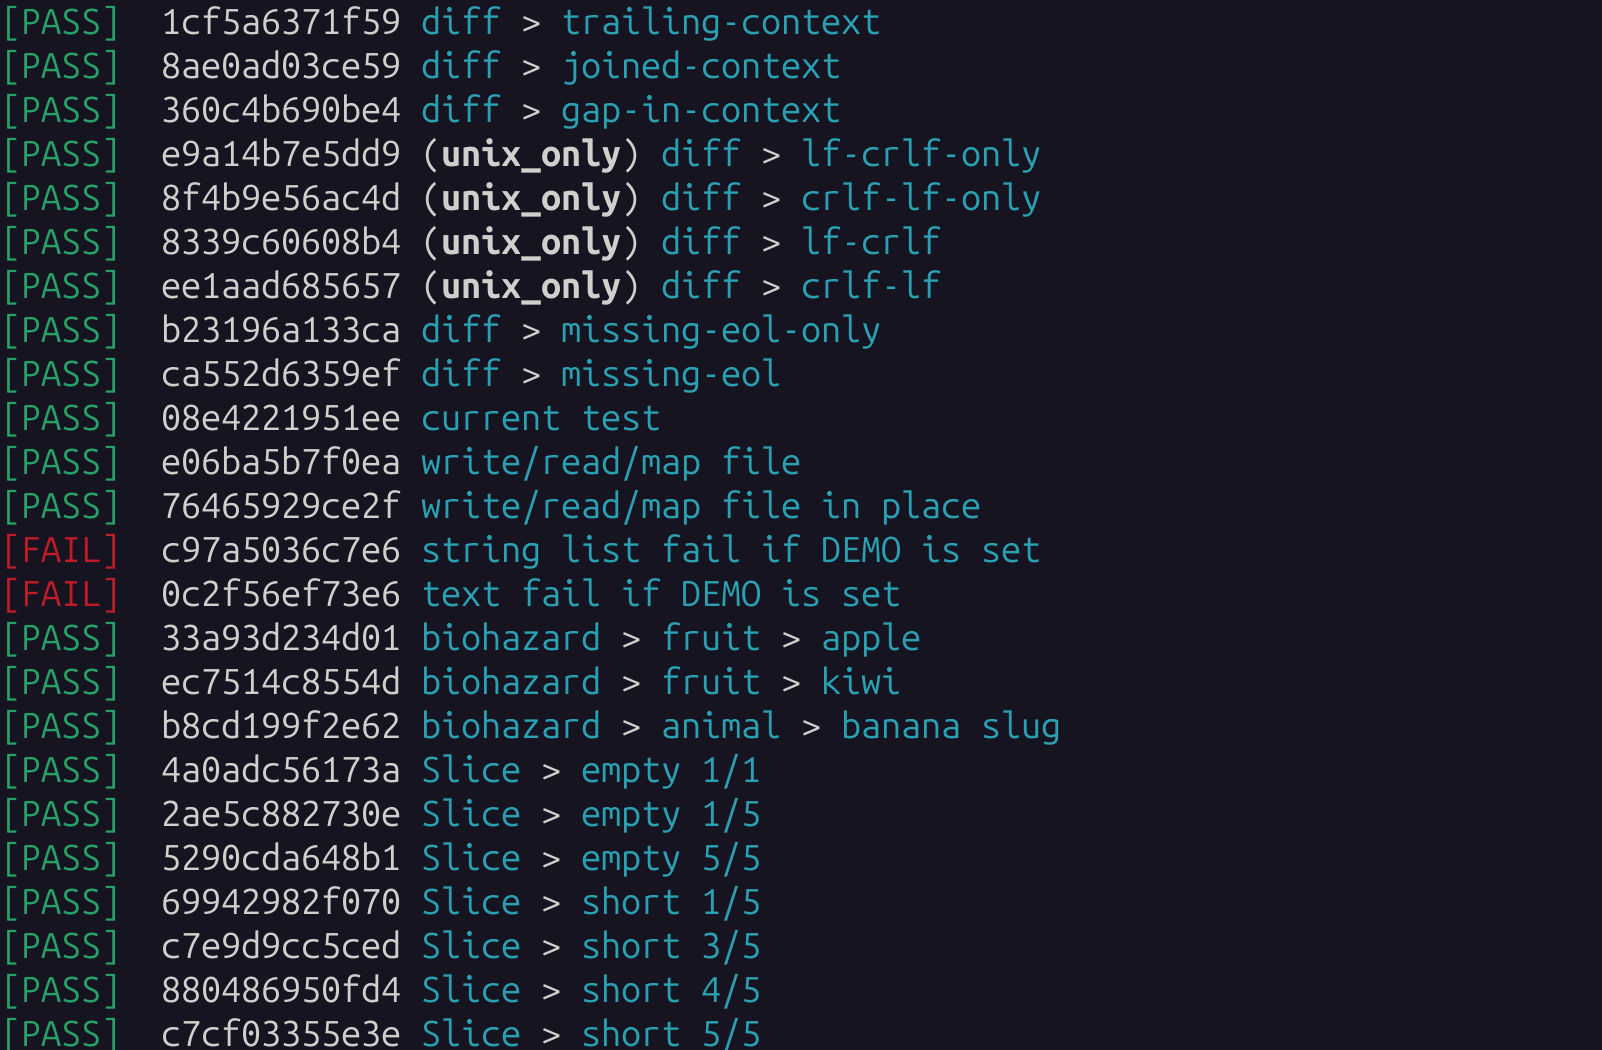
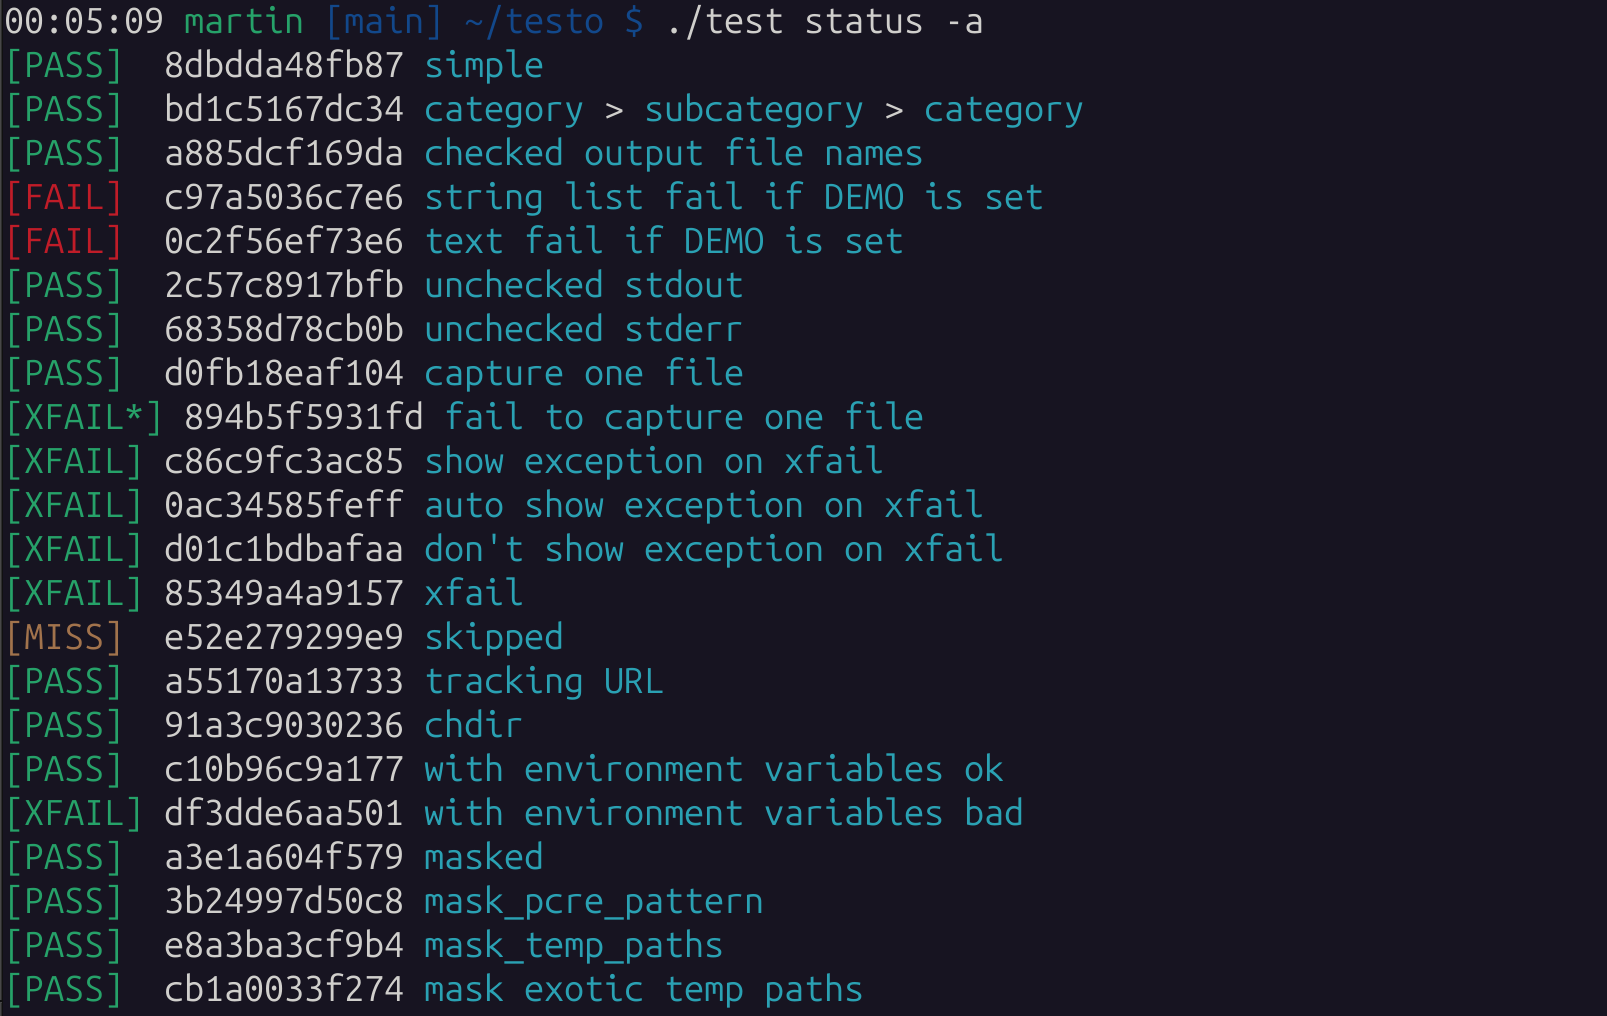
Update status screenshot

Changed region(s): [[0.0, 0.0, 0.6866, 1.0], [0.593, 0.0, 0.6242, 0.0305]]

diff --git a/docs/index.html b/docs/index.html
@@ -64,9 +64,9 @@ and issue tracking on GitHub</a></li>
 <div style="margin-top:5em">
 <p><img src="img/status.png" width="60%"
        alt="screenshot showing the output of './test status'"
-       title="the output of './test status'"/></p>
+       title="the output of './test status -a'"/></p>
 </div>
-<p><em>The output of <code>./test status</code></em></p>
+<p><em>The output of <code>./test status -a</code></em></p>
 <div style="margin-top:5em">
 <p><img src="img/wendys.png" width="60%"
        alt="screenshot showing a test failure"

diff --git a/docsrc/index.md b/docsrc/index.md
@@ -27,10 +27,10 @@ _A successful test run_
 <div style="margin-top:5em">
   <img src="img/status.png" width="60%"
        alt="screenshot showing the output of './test status'"
-       title="the output of './test status'"/>
+       title="the output of './test status -a'"/>
 </div>
 
-_The output of `./test status`_
+_The output of `./test status -a`_
 
 <div style="margin-top:5em">
   <img src="img/wendys.png" width="60%"
